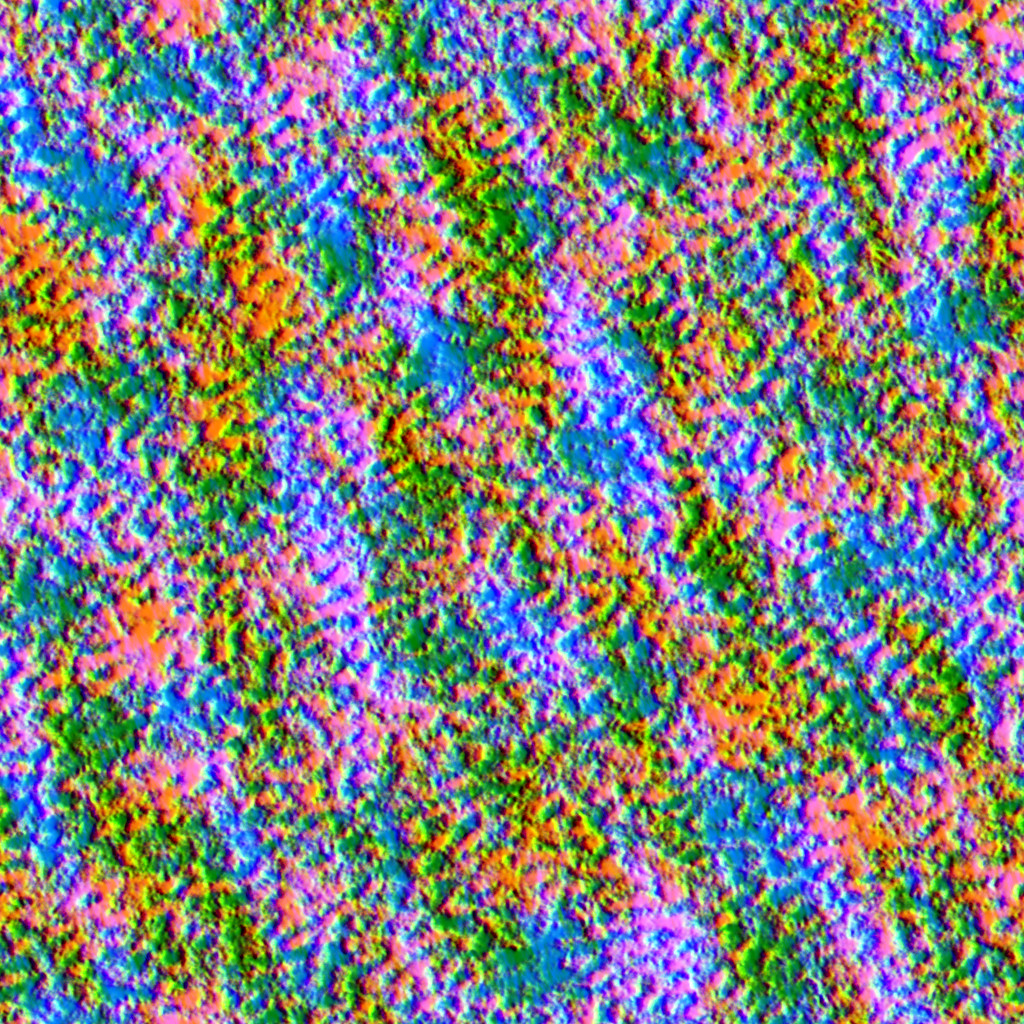
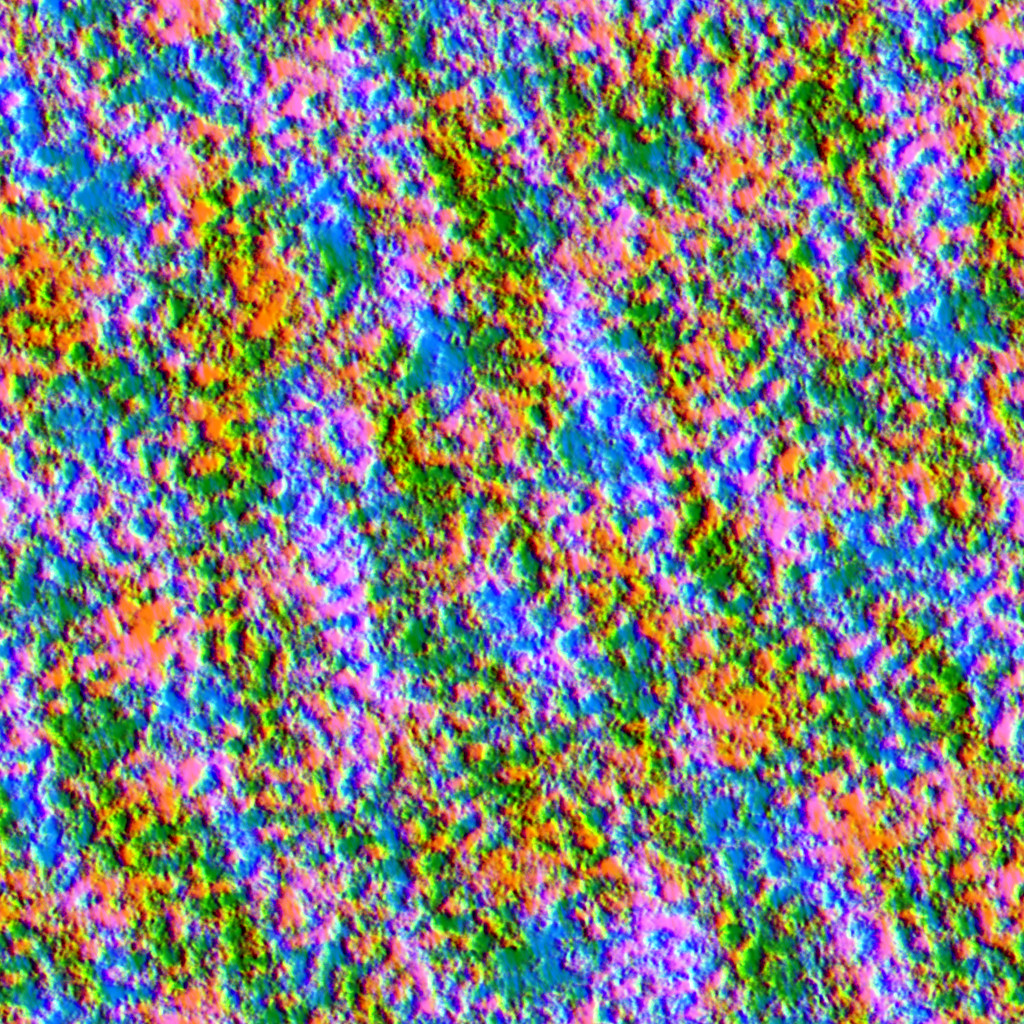
Cloud from far as torn lines of grains, softer cyclone, storm sheet, cloud held back on the handoff frame

diff --git a/src/places/reveal/sky/index.ts b/src/places/reveal/sky/index.ts
@@ -54,11 +54,11 @@ void main() {
   vec3 midColour = cloudLight(between, 0.45 + 0.25 * mid, 0.7, 0.5) * (1.0 - 0.2 * over) * 0.92;
   vec3 highColour = cloudLight(up, 0.62, 0.6, 1.0);
   float a = low.x * 0.96;
-  float m = mid * 0.24;
+  float m = mid * 0.13;
   float b = high * 0.28;
   vec3 colour = lowColour * a * (1.0 - m) * (1.0 - b) + midColour * m * (1.0 - b) + highColour * b;
   float alpha = 1.0 - (1.0 - a) * (1.0 - m) * (1.0 - b);
-  gl_FragColor = vec4(colour * (1.0 - uSolo), alpha * (1.0 - uSolo));
+  gl_FragColor = vec4(colour * (1.0 - uSolo), alpha * (1.0 - uSolo)) * uArrive;
 }`;
 
 const CYCLONE_FRAGMENT = /* glsl */ `
@@ -78,8 +78,8 @@ void main() {
   vec2 q = vec2(c * p.x - s * p.y, s * p.x + c * p.y) * 0.5 + 0.5;
   vec3 t = texture2D(uPicture, q).rgb;
   float thick = t.r * (1.0 - smoothstep(0.86, 1.0, r));
-  vec3 colour = cloudLight(vWorld.xz, t.g, 0.5 + 0.5 * t.b, 0.5 * t.b) * (0.8 + 0.3 * t.b);
-  float alpha = clamp(thick * 1.15, 0.0, 1.0);
+  vec3 colour = cloudLight(vWorld.xz, t.g, 0.5 + 0.5 * t.b, 0.5 * t.b) * (0.66 + 0.34 * t.b);
+  float alpha = clamp(thick * 1.05, 0.0, 0.96);
   gl_FragColor = vec4(colour * alpha * (1.0 - uSolo), alpha * (1.0 - uSolo));
 }`;
 
@@ -103,16 +103,17 @@ vec3 flash(float cell, float rate) {
 void main() {
   vec3 t = texture2D(uPicture, vUv).rgb;
   float thick = t.r;
-  vec3 colour = cloudLight(vWorld.xz, t.g, 0.5 + 0.5 * t.b, t.b) * (0.72 + 0.5 * t.b);
+  // The sheet of the anvil is thin and grey white; the heads of the towers stand through it, bright on the side of the sun and dark on the other.
+  vec3 colour = cloudLight(vWorld.xz, 0.5, 0.6, t.b) * (0.36 + 0.34 * t.b) * mix(0.5, 1.7, smoothstep(0.25, 0.75, t.g));
   // The light of the flashes comes through the cloud from inside: soft, blue white, brightest where the cloud is thin over it.
   vec3 glow = vec3(0.0);
   for (int i = 0; i < 4; i++) {
     vec3 f = flash(float(i), 0.55 + 0.17 * float(i));
     vec2 d = (vUv - f.xy) * vec2(1.0, 0.36);
-    glow += vec3(0.72, 0.8, 1.0) * f.z * exp(-dot(d, d) * 420.0) * (0.5 + 0.5 * t.b);
+    glow += vec3(0.66, 0.6, 1.0) * f.z * exp(-dot(d, d) * 520.0) * (0.4 + 0.6 * t.b);
   }
   colour += glow * 1.6;
-  float alpha = clamp(thick * 1.25, 0.0, 1.0);
+  float alpha = clamp(pow(thick, 1.6) * 1.15, 0.0, 1.0);
   gl_FragColor = vec4(colour * alpha * (1.0 - uSolo), alpha * (1.0 - uSolo));
 }`;
 
@@ -127,16 +128,16 @@ void main() {
   // v runs from the throat (0) down the wind (1). The breath leaves in a few strands, which bend with the wind, spread and thin.
   float along = vUv.y;
   float spread = 0.1 + 0.4 * pow(along, 0.7);
-  float bend = 0.24 * along * along + 0.025 * sin(along * 9.0 + uTime * 0.1);
-  float across = (vUv.x - 0.5 - bend) / spread;
+  float bend = -0.42 * along * along + 0.03 * sin(along * 7.0 + uTime * 0.1);
+  float across = (vUv.x - 0.553 - bend) / spread;
   vec2 q = vec2(across * 2.4 + 0.7 * vnoise(vec2(along * 4.0 - uTime * 0.03, 3.7)), along * 1.6 - uTime * 0.02);
   float line = abs(vnoise(q * vec2(1.0, 0.35) + 5.0) - 0.5) * 2.0;
   float strand = 1.0 - smoothstep(0.0, 0.2 + 0.35 * along, line);
   float wisp = texture2D(uCloudTile, vec2(q.x * 0.13 + 0.2, q.y * 0.2)).b;
   float body = (1.0 - smoothstep(0.5, 1.0, abs(across))) * smoothstep(0.0, 0.06, along) * (1.0 - smoothstep(0.35, 1.0, along));
   float thick = body * strand * (0.4 + 0.9 * wisp);
-  vec3 colour = cloudLight(vWorld.xz, 0.6, 0.5, 0.3);
-  float alpha = clamp(thick * 0.62, 0.0, 1.0);
+  vec3 colour = cloudLight(vWorld.xz, 0.75, 0.8, 0.3);
+  float alpha = clamp(thick * 0.85, 0.0, 1.0);
   gl_FragColor = vec4(colour * alpha * (1.0 - uSolo), alpha * (1.0 - uSolo));
 }`;
 
@@ -200,7 +201,7 @@ export function create(ctx: Context): Piece {
       .translate(X(at.x), height, Z(at.y));
 
   // The breath of the throat: it leaves the neck and is carried up the picture by the wind.
-  sheet('vapour', quad({ x: AT.throat.x + 60, y: AT.throat.y - 330 }, 260, 330, 1.5, 0), VAPOUR_FRAGMENT);
+  sheet('vapour', quad({ x: AT.throat.x - 40, y: AT.throat.y - 400 }, 380, 400, 1.5, 0), VAPOUR_FRAGMENT);
   sheet('cloud', new THREE.PlaneGeometry(90000, 90000).rotateX(-Math.PI / 2).translate(0, LOW_KM, 0), CLOUD_FRAGMENT);
   sheet('storm', quad(AT.storm, 235, 88, 7, 0.03), STORM_FRAGMENT, { uPicture: { value: ctx.assets.texture('sky/storm.jpg', { kind: 'data', repeat: false }) } });
   sheet('cyclone', quad(AT.cyclone, 880, 880, 6, 0), CYCLONE_FRAGMENT, { uPicture: { value: ctx.assets.texture('sky/cyclone.jpg', { kind: 'data', repeat: false }) } });

diff --git a/src/places/reveal/shared/weather.ts b/src/places/reveal/shared/weather.ts
@@ -19,9 +19,14 @@ vec3 coverAt(vec2 xz) {
 
 // The low cloud: x how thick (0 to 1), y how much it faces the sun (0.5 is level), z how fine its edge is drawn.
 // Fields of cells, each a few km across, in streets and clumps: the share of the sky they take comes from the cover.
-vec3 lowCloud(vec2 xz) {
+vec3 lowCloud(vec2 at) {
   vec2 drift = uTime * vec2(1.3, -0.35);
-  vec3 cover = coverAt(xz);
+  float px = fwidth(at.x) + fwidth(at.y);
+  float away = smoothstep(0.25, 1.6, px);
+  // The wind is not straight: the whole field is read through a slow bend, so its streets curve.
+  vec2 bend = vec2(sin(at.y / 610.0 + 1.3 * sin(at.x / 1130.0)), sin(at.x / 870.0 + 1.7 * sin(at.y / 1370.0)));
+  vec2 xz = at + 130.0 * bend;
+  vec3 cover = coverAt(at);
   vec3 wide = texture2D(uCloudTile, (xz - drift) / 760.0).rgb;
   vec3 mid = texture2D(uCloudTile, (xz - drift * 1.15) / 173.0 + vec2(0.37, 0.61)).rgb;
   // The same cells again, turned and at another size, so no street of them is seen twice.
@@ -31,12 +36,24 @@ vec3 lowCloud(vec2 xz) {
   vec3 near = texture2D(uCloudTile, (xz - drift * 1.2) / 41.0 + vec2(0.13, 0.77)).rgb;
   float share = 0.74 * smoothstep(0.2, 0.62, cover.r) + 0.4 * cover.b;
   // Where the fields of cloud are, and in them the cells: the fuller the field, the more of its cells have grown.
-  float fieldOf = smoothstep(0.9 - 1.25 * share, 1.45 - 1.25 * share, 0.8 * wide.r + 0.2 * mid.r) * smoothstep(0.0, 0.06, share);
+  float systems = mix(0.8 * wide.r + 0.2 * mid.r, 0.45 * wide.r + 0.55 * wide.b, away);
+  float fieldOf = smoothstep(0.9 - 1.25 * share, 1.45 - 1.25 * share, systems) * smoothstep(0.0, 0.06, share);
+  // From far no sea is quite clear of cloud: between the fields there is thin broken cloud.
+  fieldOf = mix(fieldOf, 0.3 * smoothstep(0.02, 0.2, share) + 0.7 * fieldOf, away);
   float cells = 0.42 * mid.r + 0.38 * other.r + 0.2 * wide.r + close * 0.16 * (near.r - 0.5);
-  float least = mix(0.82, 0.5, fieldOf);
-  float thick = smoothstep(least, least + mix(0.1, 0.06, close), cells);
+  float least = mix(0.78, 0.46, fieldOf);
+  // The edge of a cell is as soft as the eye is far: a puff from orbit, a hard head only from near.
+  float soft = mix(mix(0.2, 0.1, close), 0.3, smoothstep(0.4, 3.0, px));
+  float thick = smoothstep(least - 0.35 * (soft - 0.15), least + 0.65 * soft, cells);
+  // From far the cells are grains, and what is seen is how the wind has drawn them out: torn lines of grains with a thin veil round them.
+  float lines = 0.62 * wide.b + 0.38 * mid.b;
+  float drawn = smoothstep(0.74 - 0.3 * fieldOf, 1.02 - 0.3 * fieldOf, lines);
+  float grains = 0.55 * mid.r + 0.45 * other.r;
+  float edge = mix(0.98, 0.42, drawn);
+  float torn = max(0.92 * smoothstep(edge, edge + 0.3, grains), 0.22 * drawn * drawn);
+  thick = mix(thick, torn, away);
   // Past the size a pixel can show, the cells are seen as their share of the field.
-  float coarse = smoothstep(2.0, 8.0, fwidth(xz.x) + fwidth(xz.y));
+  float coarse = smoothstep(3.0, 9.0, px);
   thick = mix(thick, 0.5 * fieldOf * fieldOf, coarse);
   float facing = 0.5 + (wide.g - 0.5) * 0.3 + (mid.g - 0.5) * 0.8 + (other.g - 0.5) * 0.6 + close * (near.g - 0.5) * 0.6;
   return vec3(thick, facing, mid.r);
@@ -60,7 +77,8 @@ float midCloud(vec2 xz) {
   float ripple = texture2D(uCloudTile, (xz - drift) / 290.0 + vec2(0.4, 0.9)).r;
   float fine = texture2D(uCloudTile, (xz - drift * 1.1) / 67.0).r;
   float streaks = texture2D(uCloudTile, (xz - drift) / 900.0 + vec2(0.1, 0.3)).b;
-  return smoothstep(0.62, 1.15, sheet) * smoothstep(0.12, 0.3, cover.g) * smoothstep(0.2, 0.9, 0.5 * ripple + 0.2 * fine + 0.5 * streaks);
+  float wisp = texture2D(uCloudTile, (xz - drift * 1.05) / 260.0 + vec2(0.6, 0.2)).b;
+  return smoothstep(0.62, 1.15, sheet) * smoothstep(0.12, 0.3, cover.g) * smoothstep(0.45, 1.0, 0.3 * ripple + 0.15 * fine + 0.45 * streaks + 0.4 * wisp);
 }
 
 // The share of the sun that reaches a point of the ground under the cloud.

diff --git a/src/places/reveal/shared/rig.ts b/src/places/reveal/shared/rig.ts
@@ -1,6 +1,6 @@
 // The light rig of the rise: the uniforms every surface shares. One sun, the blue of the air, the edge of the planet, and the beat of the Heart.
 import * as THREE from 'three';
-import { BEAT, KM, LIMB, SUN, X, Z, halfHeightAt } from './anchors';
+import { BEAT, KM, LIMB, SUN, X, Z, halfHeightAt, handoff } from './anchors';
 import { COVER_RECT } from './weather';
 
 export interface Emitter {
@@ -37,6 +37,8 @@ export function createRig(): Rig {
     uAirColour: { value: new THREE.Color(0.1, 0.2, 0.42) },
     uLimb: { value: new THREE.Vector4(X(LIMB.cx), Z(LIMB.cy), LIMB.r * KM, 1 / (LIMB.r * KM)) },
     uViewKm: { value: 20 },
+    // 0 on the frame of the handoff, where only water and rings are drawn; 1 once the view is 1.7 times as wide.
+    uArrive: { value: 0 },
     // The cloud of the world (shared/weather.ts): the sky folder gives the pictures.
     uCloudTile: { value: null },
     uCloudCover: { value: null },
@@ -66,6 +68,8 @@ export function createRig(): Rig {
       (uniforms.uTime as THREE.IUniform<number>).value = seconds;
       (uniforms.uBeat as THREE.IUniform<number>).value = beat(seconds);
       (uniforms.uViewKm as THREE.IUniform<number>).value = halfHeightAt(Math.max(0, seconds));
+      const wide = Math.min(1, Math.max(0, (halfHeightAt(Math.max(0, seconds)) / handoff.revealHalfHeightKm - 1) / 0.7));
+      (uniforms.uArrive as THREE.IUniform<number>).value = wide * wide * (3 - 2 * wide);
     },
     beforeSample: () => undefined,
     dispose: () => {

diff --git a/src/places/reveal/land/index.ts b/src/places/reveal/land/index.ts
@@ -89,7 +89,7 @@ void main() {
   ground *= mix(1.0, mix(0.75, 1.15, smoothstep(0.02, 0.4, height)), land * smoothstep(40.0, 400.0, uViewKm));
   vec3 earth = rigShade(vWorld, n, view, ground, 0.92, shade);
   // The light the sunlit slopes throw back into the shaded ones: without it every shadow is the blue of the sky.
-  earth += ground * uSunColour * 0.03 * (0.4 + 0.6 * shade);
+  earth += ground * uSunColour * 0.085 * (0.4 + 0.6 * shade);
 
   // The lava of the Heart: vents in the black crust of the chest. The great one is the Heart, and it swells with the beat; the heat shows
   // along the cracks round it. Each is a few kilometres of molten rock: from orbit a point of orange light with a glow in the haze over it.

diff --git a/src/places/reveal/shared/glsl.ts b/src/places/reveal/shared/glsl.ts
@@ -23,7 +23,8 @@ uniform vec3 uSunColour;
 uniform vec3 uSkyColour;
 uniform vec3 uAirColour;
 uniform vec4 uLimb;
-uniform float uViewKm;`;
+uniform float uViewKm;
+uniform float uArrive;`;
 
 export const RIG_GLSL = /* glsl */ `
 ${RIG_UNIFORMS_GLSL}

diff --git a/assets-src/reveal/sky/make_sky.py b/assets-src/reveal/sky/make_sky.py
@@ -46,7 +46,7 @@ def save(name, rgb, quality=90):
 
 def tile():
     n = 1024
-    cells = spectral(n, lambda k: np.exp(-((k - 26) / 12) ** 2), stretch=(1.0, 0.55), turn=-0.5)
+    cells = spectral(n, lambda k: np.exp(-((k - 26) / 12) ** 2), stretch=(1.0, 0.8), turn=-0.5)
     clumps = spectral(n, lambda k: np.exp(-((k - 6) / 4) ** 2))
     puffs = spectral(n, lambda k: np.where(k > 30, (np.maximum(k, 1) / 30) ** -1.6, 0.0))
     billow = 1 - np.abs(spectral(n, lambda k: np.exp(-((k - 60) / 30) ** 2)))
@@ -108,12 +108,12 @@ def cyclone():
     torn = spectral(n, lambda k: np.exp(-((k - 11) / 7) ** 2))
     cells = spectral(n, lambda k: np.exp(-((k - 40) / 20) ** 2))
     out = np.clip(r * 2.0, 0, 1)
-    d = 0.5 + 0.36 * arms + 0.16 * fine + 0.26 * fibre + 0.14 * hair + 0.18 * torn * out + 0.1 * cells * out + 0.06 * fleck
+    d = 0.5 + 0.2 * arms + 0.14 * fine + 0.3 * fibre + 0.22 * hair + 0.16 * torn * out + 0.08 * cells * out + 0.05 * fleck
     core = np.exp(-(r / 0.2) ** 2)
     d = d + 0.8 * core
-    d = d * np.clip((1.0 + 0.12 * torn - r) / 0.6, 0, 1) ** 0.9
+    d = d * np.clip((1.0 + 0.12 * torn - r) / 0.75, 0, 1) ** 0.8
     eye = np.clip((r - 0.01) / 0.045, 0, 1) ** 1.5
-    dens = np.clip((d - 0.38) * 1.25, 0, 1) ** 1.3 * eye
+    dens = np.clip((d - 0.24) * 1.15, 0, 1) ** 1.25 * eye
     tall = np.clip(0.35 * dens + 0.65 * core + 0.2 * fine * dens, 0, 1)
     lit = facing(cv2.GaussianBlur(tall + 0.5 * dens, (0, 0), 1.5), 4.0, 3.0)
     save('cyclone.jpg', np.stack([dens, lit, tall], -1), 90)
@@ -124,18 +124,21 @@ def storm():
     u = (x - w / 2) / (w / 2); v = (y - h / 2) / (h / 2)
     n = 1024
     lumps = spectral(n, lambda k: np.exp(-((k - 14) / 7) ** 2))[:h, :w]
-    cauli = 1 - np.abs(spectral(n, lambda k: np.exp(-((k - 45) / 22) ** 2)))[:h, :w]
-    crumb = 1 - np.abs(spectral(n, lambda k: np.exp(-((k - 130) / 60) ** 2)))[:h, :w]
-    rag = spectral(n, lambda k: (np.maximum(k, 3) / 3) ** -1.4 * (k > 2), stretch=(0.4, 1.0))[:h, :w]
-    # an anvil: a long ragged sheet, thicker at the towers, torn at the rim and blown out to the lee
-    body = 1 - np.sqrt((u / 0.88) ** 2 + (v / (0.62 + 0.16 * u)) ** 2) + 0.16 * rag
+    cauli = 1 - np.abs(spectral(n, lambda k: np.exp(-((k - 22) / 10) ** 2)))[:h, :w]
+    crumb = 1 - np.abs(spectral(n, lambda k: np.exp(-((k - 60) / 28) ** 2)))[:h, :w]
+    rag = spectral(n, lambda k: (np.maximum(k, 3) / 3) ** -1.6 * (k > 2), stretch=(0.4, 1.0))[:h, :w]
+    fibre = spectral(n, lambda k: (np.maximum(k, 6) / 6) ** -1.2 * (k > 5), stretch=(1.0, 0.12))[:h, :w]
+    # an anvil: a long lens of ice blown out to one side, thin and fibrous at its rim, and through it the heads of the towers that feed it
+    lens = 1 - np.sqrt(((u + 0.05) / 0.9) ** 2 + (v / (0.66 - 0.2 * u)) ** 2) + 0.05 * rag
+    sheet = np.clip(lens * 1.5, 0, 1) ** 1.2 * np.clip(0.75 + 0.3 * fibre, 0, 1)
     towers = np.zeros((h, w), np.float32)
-    for cx, cy, cr in [(-0.52, 0.05, 0.2), (-0.2, -0.1, 0.24), (0.12, 0.08, 0.27), (0.42, -0.06, 0.2), (0.62, 0.12, 0.13)]:
-        towers = np.maximum(towers, np.exp(-(((u - cx) / cr) ** 2 + ((v - cy) / (cr * 2.3)) ** 2)))
-    tall = np.clip(0.25 * np.clip(body * 2, 0, 1) + towers * (0.55 + 0.3 * lumps + 0.28 * cauli + 0.12 * crumb), 0, 1)
-    dens = np.clip(body * 3.2 + 0.5 * towers - 0.18 + 0.22 * rag, 0, 1)
-    dens = dens * np.clip(0.75 + 0.5 * tall + 0.12 * crumb, 0, 1)
-    lit = facing(cv2.GaussianBlur(tall, (0, 0), 1.2), 5.0, 4.5)
+    for cx, cy, cr in [(-0.6, 0.02, 0.085), (-0.36, -0.06, 0.1), (-0.1, 0.05, 0.13), (0.22, -0.03, 0.1), (0.46, 0.1, 0.07)]:
+        d = np.sqrt(((u - cx) / cr) ** 2 + ((v - cy) / (cr * 2.67)) ** 2) + 0.22 * lumps
+        towers = np.maximum(towers, np.clip(1.25 - d, 0, 1) ** 0.8)
+    head = towers * (0.5 + 0.4 * cauli + 0.1 * crumb)
+    tall = np.clip(0.3 * sheet + 0.7 * head, 0, 1)
+    dens = np.clip(np.maximum(sheet, towers * 1.2), 0, 1)
+    lit = facing(wrapblur(tall, 2.0), 5.0, 5.5)
     save('storm.jpg', np.stack([dens, lit, tall], -1), 90)
 
 tile(); cover(); cyclone(); storm()
